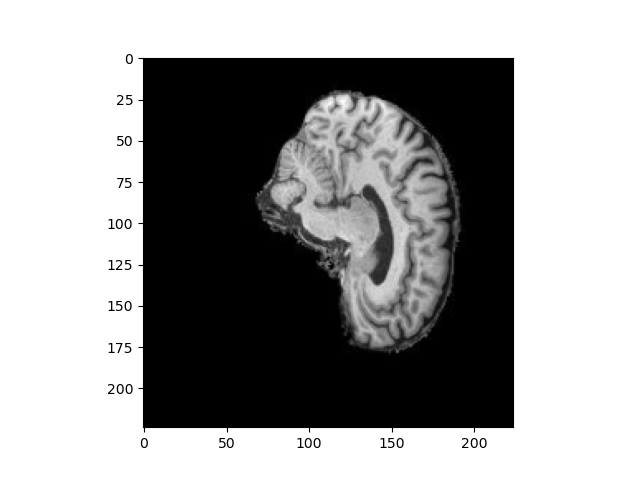
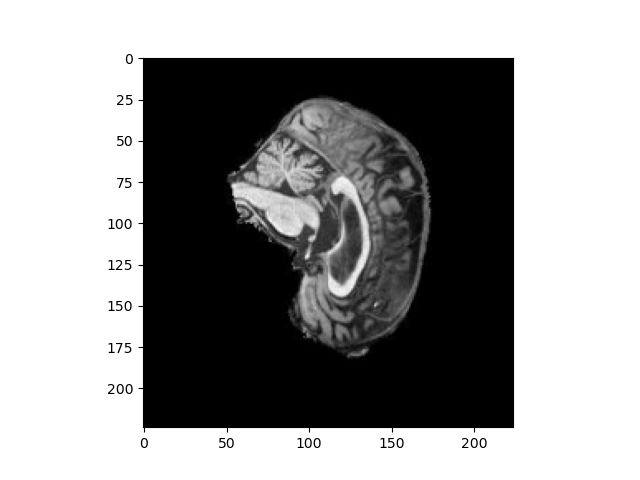
added base ConvXNet Model based on research paper

Changed region(s): [[0.3438, 0.1875, 0.7188, 0.75]]

diff --git a/recognition/s4742538_alzheimers/modules.py b/recognition/s4742538_alzheimers/modules.py
@@ -2,3 +2,149 @@
 contains the source code of the components of the model. Each component must be 
 implementated as a class or a function
 """
+import torch # type: ignore
+import torch.nn as nn # type: ignore
+import torch.nn.functional as F # type: ignore
+from timm.models.layers import trunc_normal_, DropPath # type: ignore
+
+class Block(nn.Module):
+    r""" ConvNeXt Block. There are two equivalent implementations:
+    (1) DwConv -> LayerNorm (channels_first) -> 1x1 Conv -> GELU -> 1x1 Conv; all in (N, C, H, W)
+    (2) DwConv -> Permute to (N, H, W, C); LayerNorm (channels_last) -> Linear -> GELU -> Linear; Permute back
+    We use (2) as we find it slightly faster in PyTorch
+    
+    Args:
+        dim (int): Number of input channels.
+        drop_path (float): Stochastic depth rate. Default: 0.0
+        layer_scale_init_value (float): Init value for Layer Scale. Default: 1e-6.
+    """
+    def __init__(self, dim, drop_path=0., layer_scale_init_value=1e-6):
+        super().__init__()
+        self.dwconv = nn.Conv2d(dim, dim, kernel_size=7, padding=3, groups=dim) # depthwise conv
+        self.norm = LayerNorm(dim, eps=1e-6)
+        self.pwconv1 = nn.Linear(dim, 4 * dim) # pointwise/1x1 convs, implemented with linear layers
+        self.act = nn.GELU()
+        self.pwconv2 = nn.Linear(4 * dim, dim)
+        self.gamma = nn.Parameter(layer_scale_init_value * torch.ones((dim)), 
+                                    requires_grad=True) if layer_scale_init_value > 0 else None
+        self.drop_path = DropPath(drop_path) if drop_path > 0. else nn.Identity()
+
+    def forward(self, x):
+        input = x
+        x = self.dwconv(x)
+        x = x.permute(0, 2, 3, 1) # (N, C, H, W) -> (N, H, W, C)
+        x = self.norm(x)
+        x = self.pwconv1(x)
+        x = self.act(x)
+        x = self.pwconv2(x)
+        if self.gamma is not None:
+            x = self.gamma * x
+        x = x.permute(0, 3, 1, 2) # (N, H, W, C) -> (N, C, H, W)
+
+        x = input + self.drop_path(x)
+        return x
+
+class ConvNeXt(nn.Module):
+    """ ConvNeXt
+        A PyTorch impl of : `A ConvNet for the 2020s`  -
+          https://arxiv.org/pdf/2201.03545.pdf
+
+    Args:
+        in_chans (int): Number of input image channels. Default: 3
+        num_classes (int): Number of classes for classification head. Default: 1000
+        depths (tuple(int)): Number of blocks at each stage. Default: [3, 3, 9, 3]
+        dims (int): Feature dimension at each stage. Default: [96, 192, 384, 768]
+        drop_path_rate (float): Stochastic depth rate. Default: 0.
+        layer_scale_init_value (float): Init value for Layer Scale. Default: 1e-6.
+        head_init_scale (float): Init scaling value for classifier weights and biases. Default: 1.
+    """
+    def __init__(self, in_chans=1, num_classes=2, 
+                 depths=[3, 3, 9, 3], dims=[96, 192, 384, 768], drop_path_rate=0., 
+                 layer_scale_init_value=1e-6, head_init_scale=1.,
+                 ):
+        super().__init__()
+
+        self.downsample_layers = nn.ModuleList() # stem and 3 intermediate downsampling conv layers
+        stem = nn.Sequential(
+            nn.Conv2d(in_chans, dims[0], kernel_size=4, stride=4),
+            LayerNorm(dims[0], eps=1e-6, data_format="channels_first")
+        )
+        self.downsample_layers.append(stem)
+        for i in range(3):
+            downsample_layer = nn.Sequential(
+                    LayerNorm(dims[i], eps=1e-6, data_format="channels_first"),
+                    nn.Conv2d(dims[i], dims[i+1], kernel_size=2, stride=2),
+            )
+            self.downsample_layers.append(downsample_layer)
+
+        self.stages = nn.ModuleList() # 4 feature resolution stages, each consisting of multiple residual blocks
+        dp_rates=[x.item() for x in torch.linspace(0, drop_path_rate, sum(depths))] 
+        cur = 0
+        for i in range(4):
+            stage = nn.Sequential(
+                *[Block(dim=dims[i], drop_path=dp_rates[cur + j], 
+                layer_scale_init_value=layer_scale_init_value) for j in range(depths[i])]
+            )
+            self.stages.append(stage)
+            cur += depths[i]
+
+        self.norm = nn.LayerNorm(dims[-1], eps=1e-6) # final norm layer
+        self.head = nn.Linear(dims[-1], num_classes)
+
+        self.apply(self._init_weights)
+        self.head.weight.data.mul_(head_init_scale)
+        self.head.bias.data.mul_(head_init_scale)
+
+    def _init_weights(self, m):
+        if isinstance(m, (nn.Conv2d, nn.Linear)):
+            trunc_normal_(m.weight, std=.02)
+            nn.init.constant_(m.bias, 0)
+
+    def forward_features(self, x):
+        for i in range(4):
+            x = self.downsample_layers[i](x)
+            x = self.stages[i](x)
+        return self.norm(x.mean([-2, -1])) # global average pooling, (N, C, H, W) -> (N, C)
+
+    def forward(self, x):
+        x = self.forward_features(x)
+        x = self.head(x)
+        return x
+
+class LayerNorm(nn.Module):
+    """ LayerNorm that supports two data formats: channels_last (default) or channels_first. 
+    The ordering of the dimensions in the inputs. channels_last corresponds to inputs with 
+    shape (batch_size, height, width, channels) while channels_first corresponds to inputs 
+    with shape (batch_size, channels, height, width).
+    """
+    def __init__(self, normalized_shape, eps=1e-6, data_format="channels_last"):
+        super().__init__()
+        self.weight = nn.Parameter(torch.ones(normalized_shape))
+        self.bias = nn.Parameter(torch.zeros(normalized_shape))
+        self.eps = eps
+        self.data_format = data_format
+        if self.data_format not in ["channels_last", "channels_first"]:
+            raise NotImplementedError 
+        self.normalized_shape = (normalized_shape, )
+    
+    def forward(self, x):
+        if self.data_format == "channels_last":
+            return F.layer_norm(x, self.normalized_shape, self.weight, self.bias, self.eps)
+        elif self.data_format == "channels_first":
+            u = x.mean(1, keepdim=True)
+            s = (x - u).pow(2).mean(1, keepdim=True)
+            x = (x - u) / torch.sqrt(s + self.eps)
+            x = self.weight[:, None, None] * x + self.bias[:, None, None]
+            return x
+"""
+convnext_tiny
+    model = ConvNeXt(depths=[3, 3, 9, 3], dims=[96, 192, 384, 768], **kwargs)
+convnext_small
+    model = ConvNeXt(depths=[3, 3, 27, 3], dims=[96, 192, 384, 768], **kwargs)
+convnext_base
+    model = ConvNeXt(depths=[3, 3, 27, 3], dims=[128, 256, 512, 1024], **kwargs)
+convnext_large
+    model = ConvNeXt(depths=[3, 3, 27, 3], dims=[192, 384, 768, 1536], **kwargs)
+convnext_xlarge
+    model = ConvNeXt(depths=[3, 3, 27, 3], dims=[256, 512, 1024, 2048], **kwargs)
+"""

diff --git a/recognition/s4742538_alzheimers/notes.md b/recognition/s4742538_alzheimers/notes.md
@@ -5,7 +5,10 @@
 
 # Models
 https://arxiv.org/pdf/2107.00645
+https://github.com/facebookresearch/ConvNeXt
+
 https://arxiv.org/pdf/2201.03545 
+
 
 
 # rangpur commands
